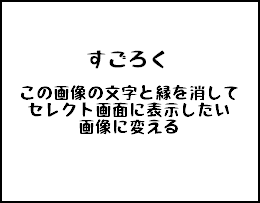
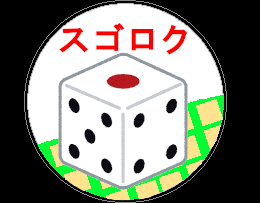
ゲームタイトル画像と説明画像を追加

diff --git a/Code/Scene/Sugoroku/SR_Map.cpp b/Code/Scene/Sugoroku/SR_Map.cpp
@@ -218,16 +218,20 @@ void SR_Map::Update() {
 
 
 void SR_Map::Draw() {	
-	// if (key->GetKeyState(REQUEST_MOUSE_RIGHT) == KEY_PUSH) {
-	if(CheckHitKey(KEY_INPUT_SPACE)){
+	if(key->GetKeyState(REQUEST_MOUSE_CENTER) == KEY_PUSH) {
+	//if(CheckHitKey(KEY_INPUT_SPACE)){
 		/*Player1sum+=1;
 		Player2sum+=1;
 		Player3sum+=1;
 		Player4sum+=1;*/
-		Player1sum == 19;
+		
+		Player1sum += 1;
+		Player2sum += 2;
+		/*
+						
 		Player2sum == 19;
 		Player3sum == 19;
-		Player4sum == 19;
+		Player4sum == 19;*/
 	}
 	DrawGraph(MassX[Player1sum], MassY[Player1sum], Player1, true);
 	DrawGraph(MassX2[Player2sum], MassY2[Player2sum], Player2, true);

diff --git a/Code/Scene/Sugoroku/SR_Result.h b/Code/Scene/Sugoroku/SR_Result.h
@@ -1,6 +1,7 @@
 #pragma once
 #include "./../Scene.h"
-class SR_Result{
+
+class SR_Result : public Scene{ 
 private:
 	int Result;
 public:
